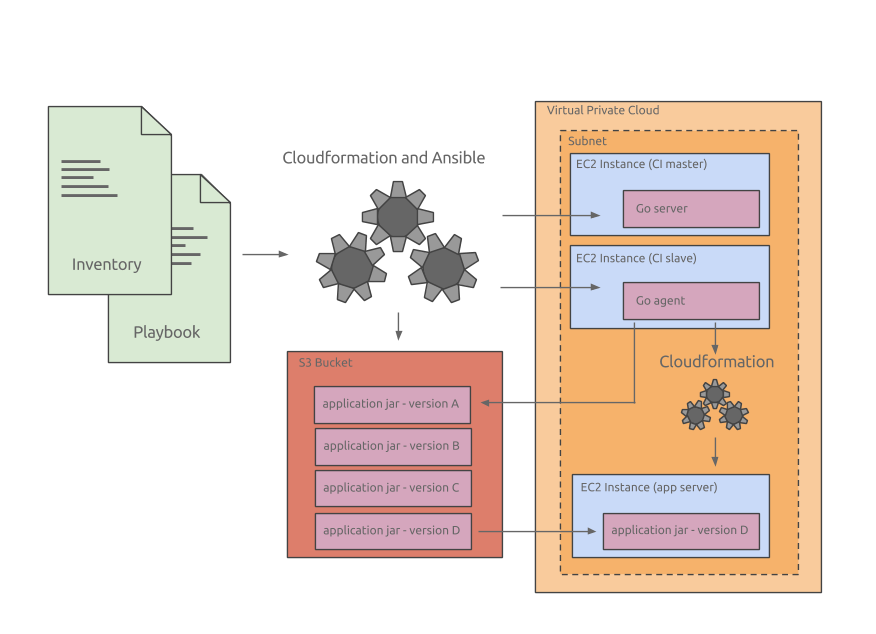
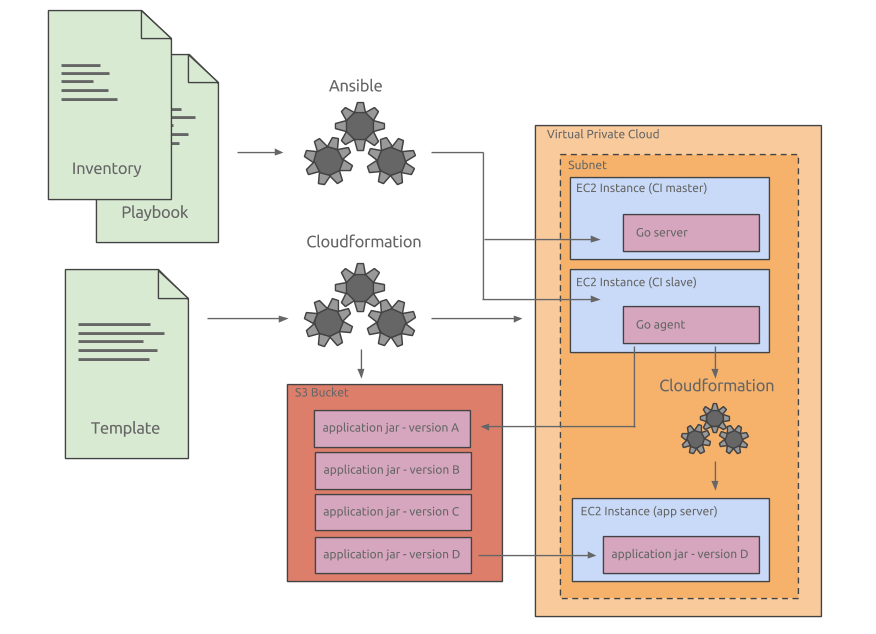
Update image and description

diff --git a/part-four/README.md b/part-four/README.md
@@ -12,7 +12,7 @@ We'll be buidling upon the last workshop to create a CI pipeline that tests, pac
 
 I will discuss each of these when they become relevant.
 
-The image below gives a rough idea of how our infrastructure will be oriented. The high level things to note here are that Cloudformation is used locally to build out the initial infrastructure, and then once again from the CI slave to build the app server. Also notice that S3 is built by Cloudformation, but it isn't conceptually part of our VPC.
+The image below gives a rough idea of how our infrastructure will be oriented. The high level things to note here are that Cloudformation is used locally to build out the initial infrastructure, and then once again from the CI slave to build the app server. Also notice that S3 resource is created by Cloudformation, but it isn't conceptually part of our VPC.
 
 ![alt text](https://github.com/kgxsz/DevOps-101/blob/master/images/part-four-goal.png "part-four-goal")
 
